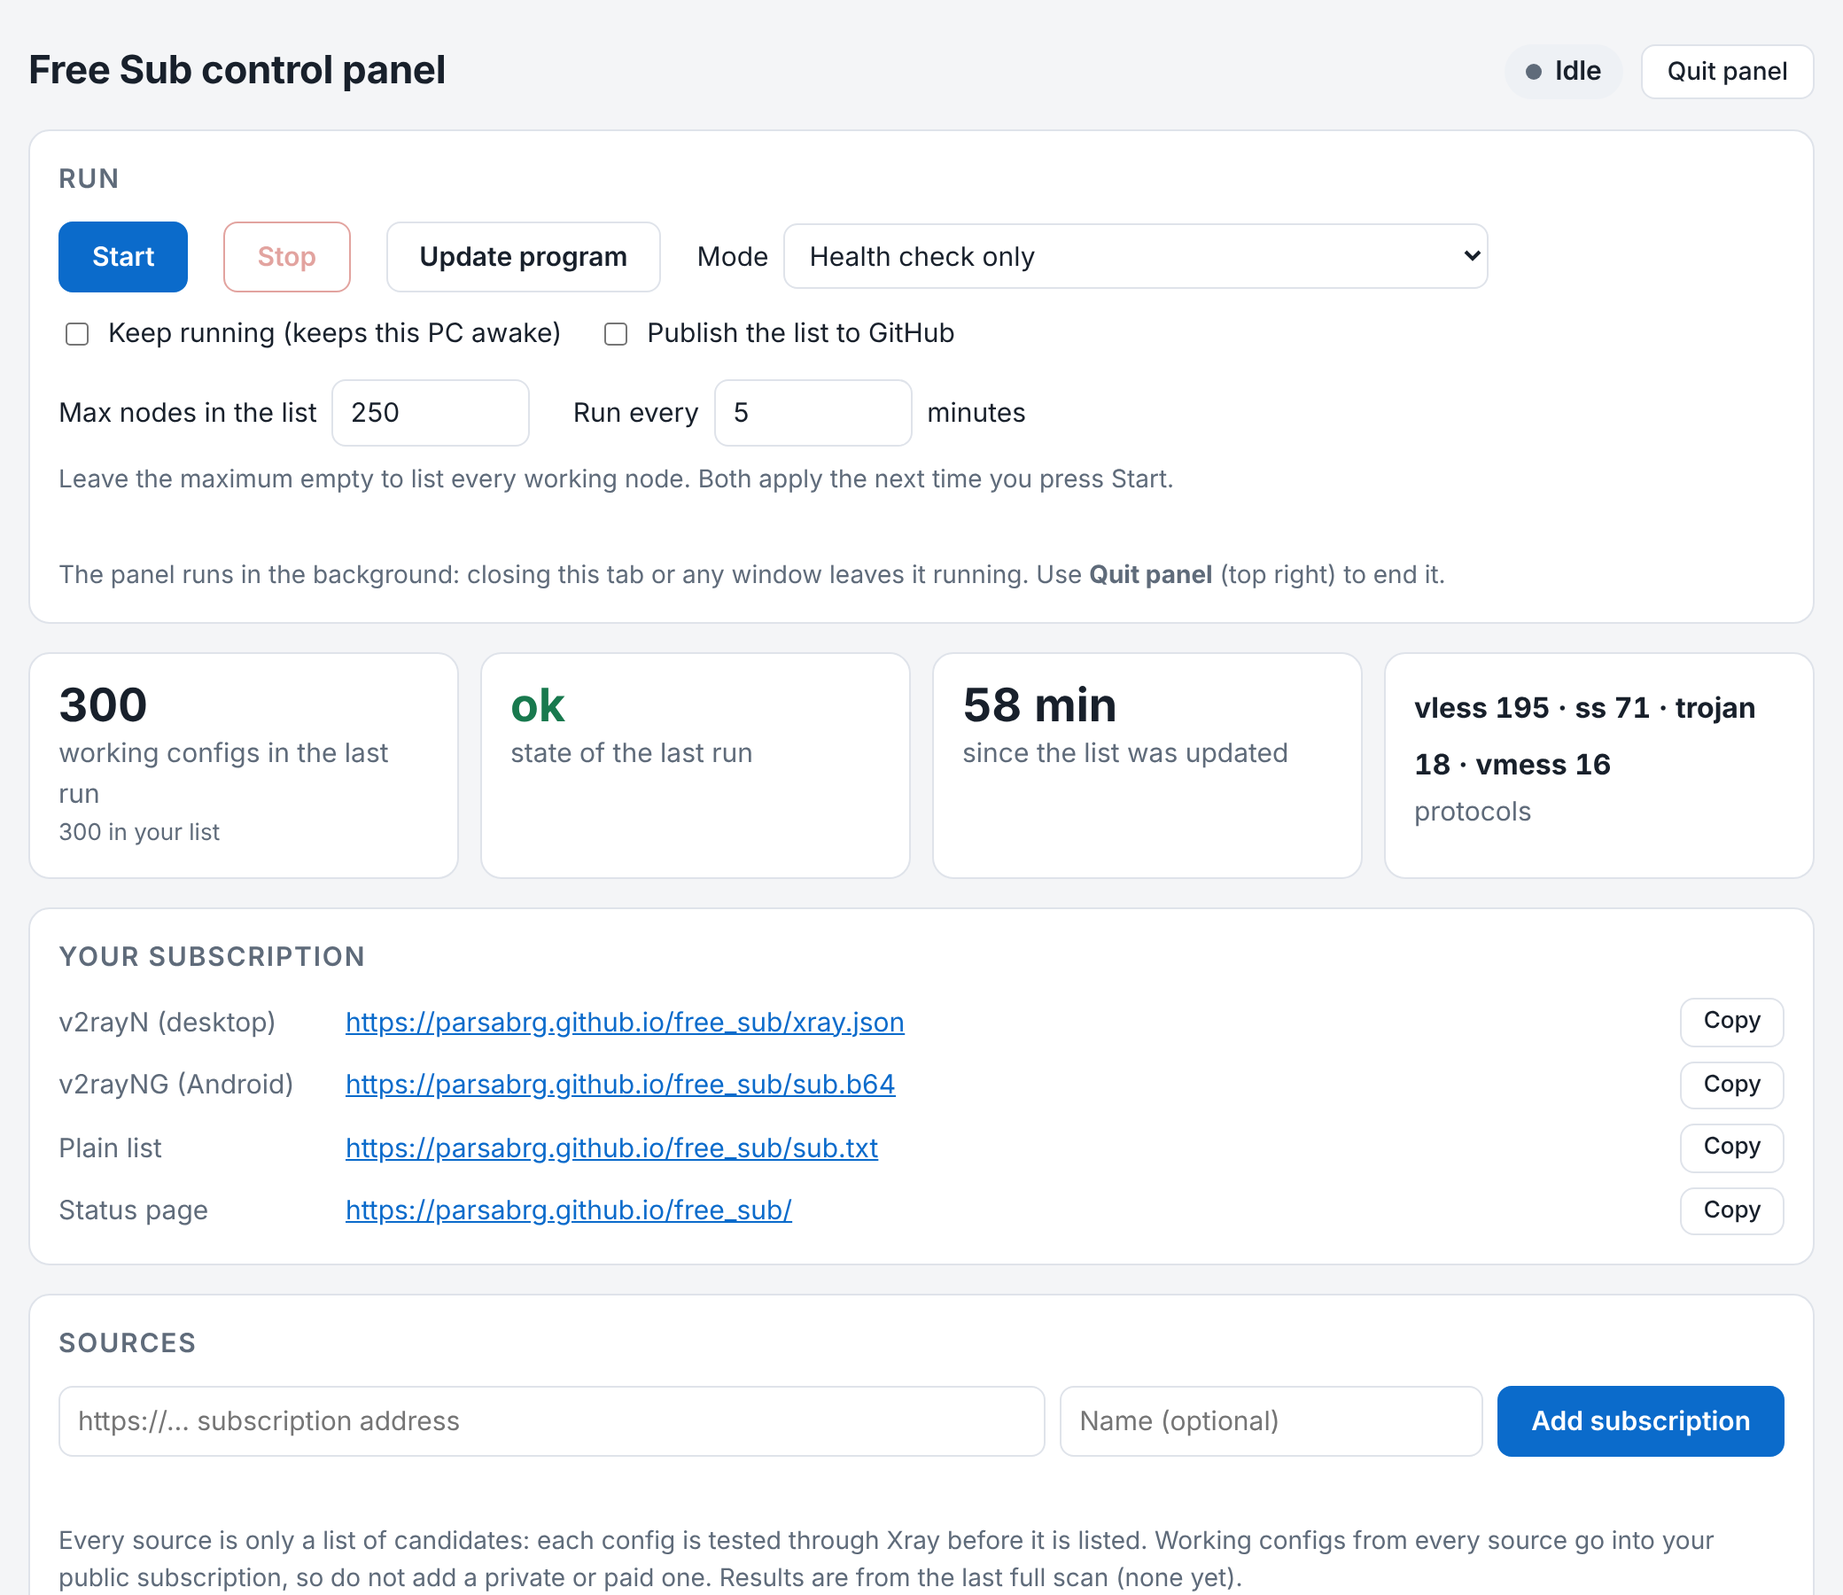
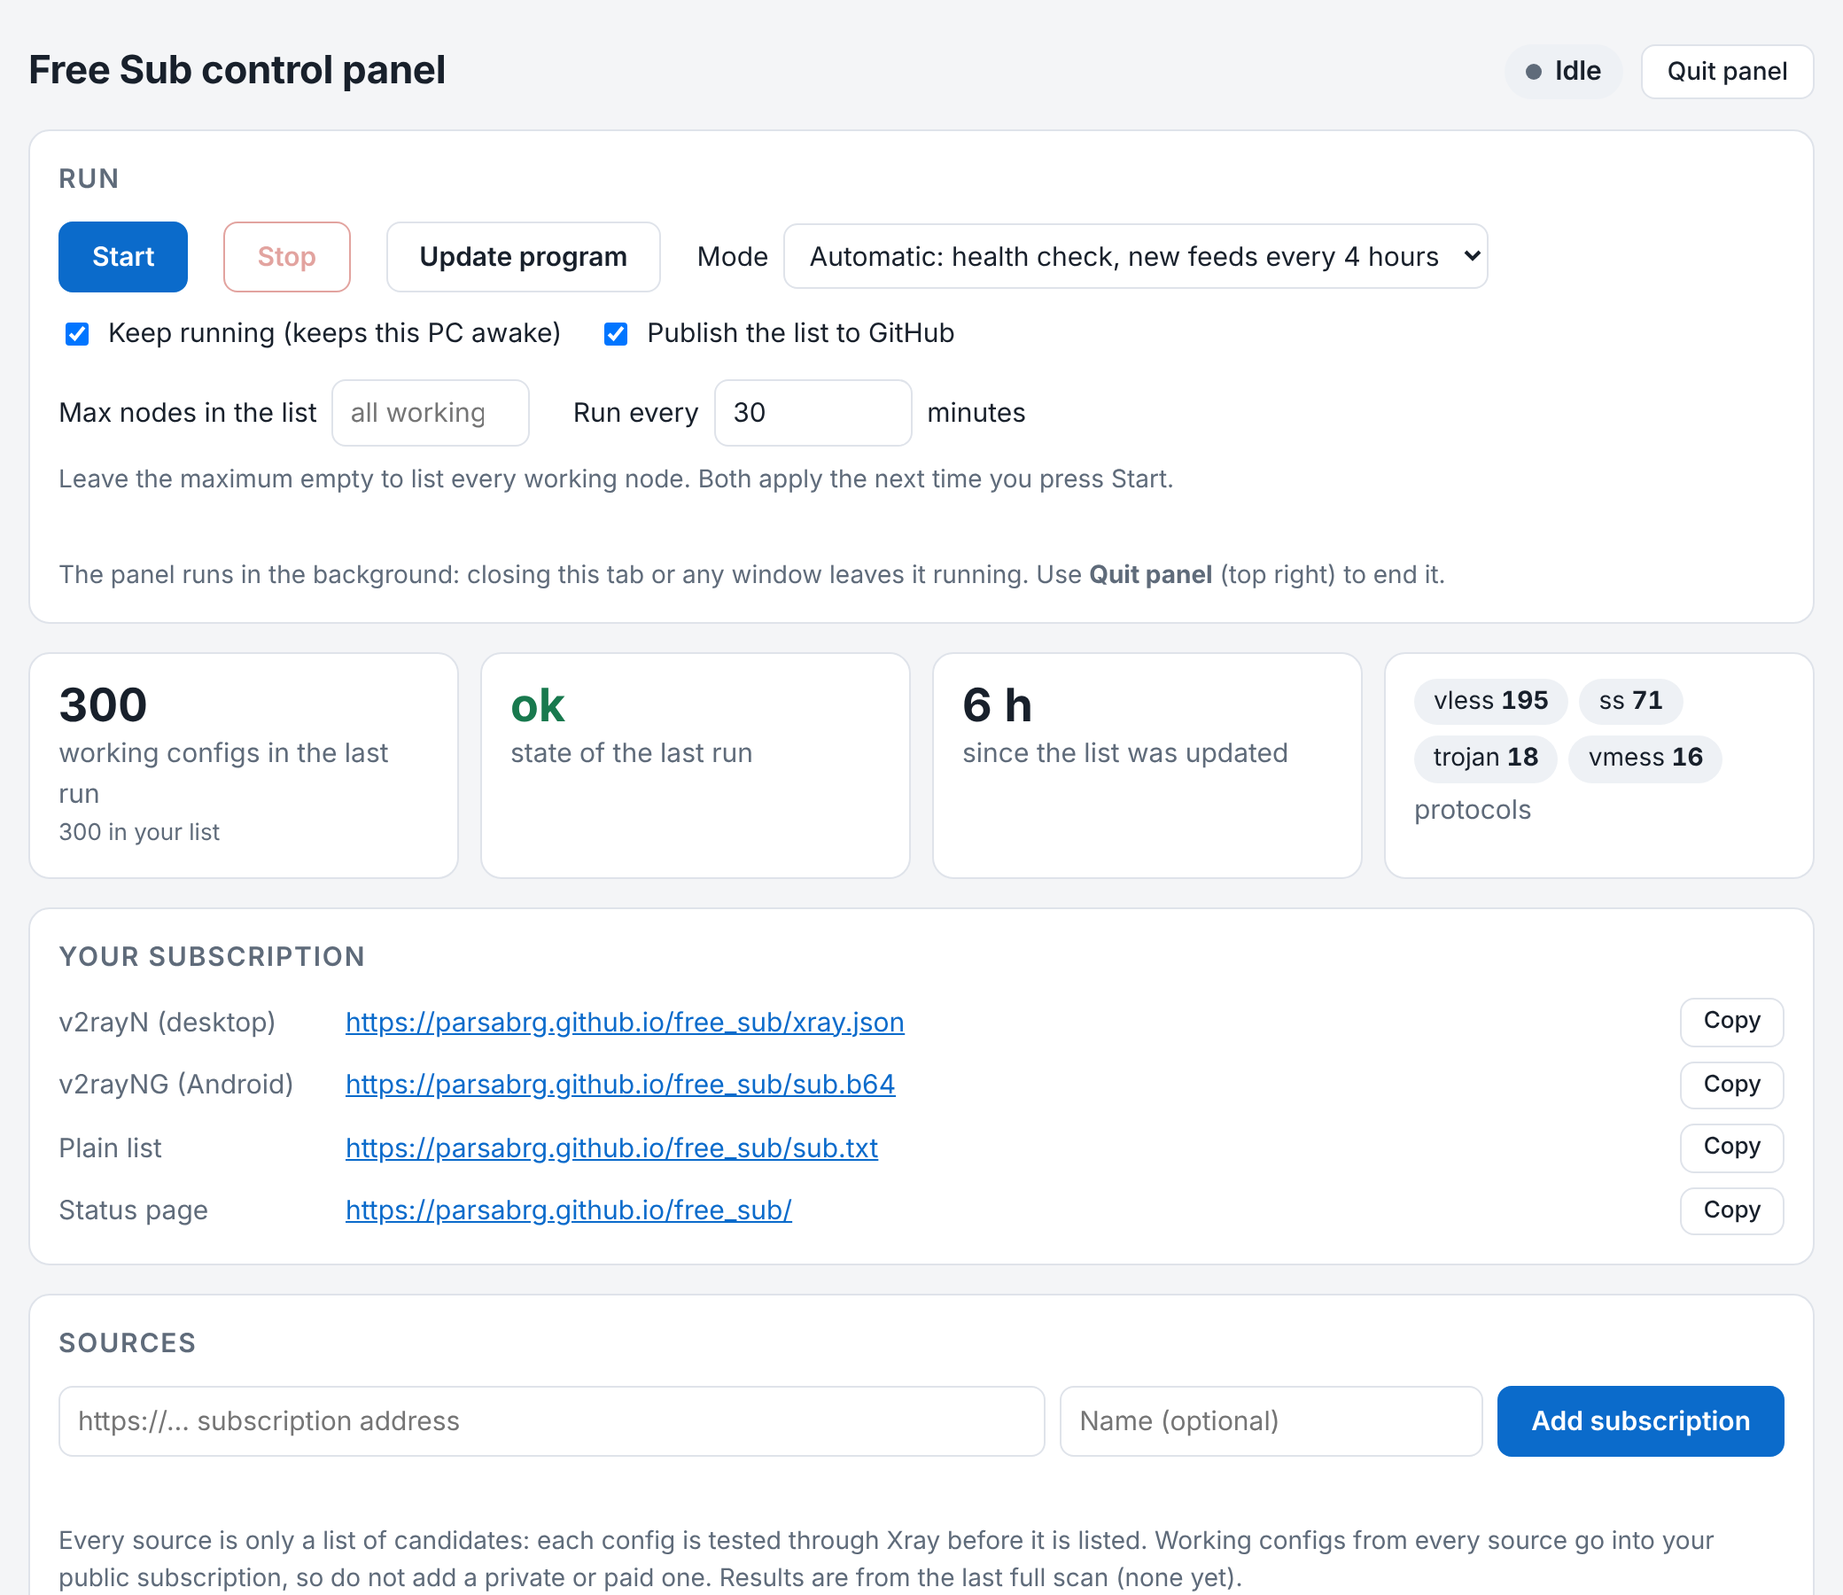
Show progress while sources are fetched; fix the protocols tile and scrollbars
The panel's progress bar appeared only once testing began, and the log
printed sources in list order, so a slow source hid every line after it.
On the operator's network the fetch phase lasted minutes and the panel
looked idle.

- collector.collect announces "[SOURCES] fetching N sources" and reports
  each source as it finishes; results keep the listed order.
- The panel shows its progress for the whole run: starting up, sources n
  of N, searching GitHub for new feeds, preparing the tests, testing. It
  looks only at the lines of the current run, so a new run no longer
  shows the previous run's last figure.
- Protocols are one chip each instead of one sentence that wrapped with a
  stray separator.
- The sources table uses fixed columns, so it no longer gets a sideways
  scrollbar on a wide screen (it still scrolls on a phone); long names
  break at slashes, not inside words.
- color-scheme: light dark on the panel and the public status page, so
  the scrollbars and form controls follow the dark theme.
- Docs, changelog, validation record and screenshot updated.

Claude-Session: https://claude.ai/code/session_01TMrhusGoKeF22YydAAP576

diff --git a/panel.html b/panel.html
@@ -5,6 +5,7 @@
 <title>Free Sub control panel</title>
 <style>
 :root {
+  color-scheme: light dark;
   --bg: #f4f5f7; --panel: #ffffff; --ink: #18202b; --muted: #5f6b7a; --line: #dfe3ea;
   --accent: #0b6bcb; --accent-ink: #ffffff; --good: #18794e; --warn: #a15c00; --bad: #c0362c;
   --chip: #eef1f5; --log-bg: #10151d; --log-ink: #cfd9e6;
@@ -51,6 +52,11 @@ label.check { display: inline-flex; align-items: center; gap: 8px; cursor: point
 .tile { background: var(--panel); border: 1px solid var(--line); border-radius: 12px; padding: 14px 16px; }
 .tile b { display: block; font-size: 26px; line-height: 1.2; font-variant-numeric: tabular-nums; }
 .tile span { color: var(--muted); }
+.chips { display: flex; flex-wrap: wrap; gap: 6px; align-content: flex-start; min-height: 31px; margin-bottom: 4px; }
+.chips b { font-size: 26px; line-height: 1.2; }
+.chips i { font-style: normal; background: var(--chip); border-radius: 999px; padding: 2px 11px; font-size: 14px; line-height: 1.6;
+  white-space: nowrap; font-variant-numeric: tabular-nums; }
+.chips i em { font-style: normal; font-weight: 700; }
 .tile small { display: block; color: var(--muted); font-size: 13px; margin-top: 2px; }
 .settings { display: flex; flex-wrap: wrap; align-items: center; gap: 10px 24px; margin-top: 14px; }
 .settings label { display: inline-flex; align-items: center; gap: 8px; max-width: 100%; }
@@ -68,14 +74,18 @@ form.add input[type=url] { flex: 3 1 260px; min-width: 0; }
 form.add input[type=text] { flex: 1 1 140px; min-width: 0; }
 .note { color: var(--muted); margin: 0 0 14px; font-size: 14px; }
 .message { min-height: 1.5em; margin: 0 0 8px; font-size: 14px; }
+.scroll, pre { scrollbar-width: thin; scrollbar-color: var(--muted) transparent; }
 .scroll { overflow-x: auto; }
-table { width: 100%; min-width: 640px; border-collapse: collapse; font-size: 14px; }
+/* Fixed columns: the table always fits its box. Only a narrow screen scrolls it sideways. */
+table { width: 100%; table-layout: fixed; border-collapse: collapse; font-size: 14px; }
+@media (max-width: 760px) { table { min-width: 640px; } }
 th, td { text-align: left; padding: 7px 10px; border-top: 1px solid var(--line); vertical-align: middle; }
 th { color: var(--muted); font-weight: 600; border-top: 0; white-space: nowrap; }
 td.num, th.num { text-align: right; font-variant-numeric: tabular-nums; white-space: nowrap; }
 tr.group td { background: var(--chip); font-weight: 600; border-top: 0; }
 tr.off td:not(:first-child) { opacity: 0.5; }
-td.where { max-width: 320px; overflow: hidden; text-overflow: ellipsis; white-space: nowrap; color: var(--muted); }
+td.where { overflow: hidden; text-overflow: ellipsis; white-space: nowrap; color: var(--muted); }
+td.name { overflow-wrap: break-word; }
 td button { padding: 2px 10px; font-weight: 500; font-size: 13px; }
 pre { margin: 0; background: var(--log-bg); color: var(--log-ink); border-radius: 8px; padding: 12px; height: 320px; overflow: auto; font: 12.5px/1.5 ui-monospace, Consolas, monospace; white-space: pre-wrap; overflow-wrap: anywhere; }
 </style>
@@ -124,7 +134,7 @@ pre { margin: 0; background: var(--log-bg); color: var(--log-ink); border-radius
     <div class="tile"><b id="t-published">–</b><span>working configs in the last run</span><small id="t-listed"></small></div>
     <div class="tile"><b id="t-health">–</b><span>state of the last run</span></div>
     <div class="tile"><b id="t-age">–</b><span>since the list was updated</span></div>
-    <div class="tile"><b id="t-protocols" style="font-size:16px;line-height:2">–</b><span>protocols</span></div>
+    <div class="tile"><div id="t-protocols" class="chips"><b>–</b></div><span>protocols</span></div>
   </div>
 
   <section id="links" hidden>
@@ -145,6 +155,7 @@ pre { margin: 0; background: var(--log-bg); color: var(--log-ink); border-radius
       Results are from the last full scan<span id="scan-age"></span>.</p>
     <div class="scroll">
       <table>
+        <colgroup><col style="width:44px"><col style="width:27%"><col style="width:21%"><col style="width:9%"><col style="width:9%"><col style="width:9%"><col></colgroup>
         <thead><tr><th>On</th><th>Name</th><th>Address</th><th class="num">Configs</th><th class="num">Tested</th><th class="num">Working</th><th></th></tr></thead>
         <tbody id="rows"></tbody>
       </table>
@@ -236,7 +247,7 @@ function renderSources(state) {
       toggle.setAttribute('aria-label', 'Use ' + source.name);
       toggle.onchange = () => act('/api/source/enable', {name: source.name, enabled: toggle.checked});
       tr.insertCell().append(toggle);
-      cell(tr, source.name);
+      cell(tr, source.name, 'name');
       cell(tr, source.where, 'where').title = source.where;
       const found = kind === 'found';
       cell(tr, count(found ? source.size : source.supported), 'num');
@@ -283,13 +294,36 @@ function render(state) {
     $('interval').value = state.settings.interval;
     first = false;
   }
-  let step = null;
-  for (let i = state.log.length - 1; i >= 0 && !step; i--) step = state.log[i].match(/\[(CHECK|VERIFY)[^\]]*\] (\d+)\/(\d+); passed=(\d+)/);
-  const showing = run.state === 'running' && step;
-  $('progress').className = 'progress' + (showing ? ' on' : '');
-  if (showing) {
-    $('fill').style.width = (100 * step[2] / Math.max(1, step[3])) + '%';
-    $('progress-text').textContent = `${step[1] === 'CHECK' ? 'Testing' : 'Verifying'} ${count(step[2])} of ${count(step[3])} · ${count(step[4])} passed`;
+  // Progress of the run that is going now: its lines start at the last "Starting a … run".
+  let from = 0;
+  for (let i = state.log.length - 1; i >= 0; i--) if (/ Starting a \w+ run/.test(state.log[i])) { from = i; break; }
+  const mine = state.log.slice(from);
+  const lastMatch = pattern => { for (let i = mine.length - 1; i >= 0; i--) { const m = mine[i].match(pattern); if (m) return {i, m}; } return null; };
+  let phase = null, width = 0;
+  if (run.state === 'running') {
+    const step = lastMatch(/\[(CHECK|VERIFY)[^\]]*\] (\d+)\/(\d+); passed=(\d+)/);
+    const planned = lastMatch(/\[RUN\] mode=\w+; candidates=(\d+)/);
+    const fetching = lastMatch(/\[SOURCES\] fetching (\d+) sources/);
+    const searching = lastMatch(/\[DISCOVER\] searching/);
+    if (step) {
+      width = 100 * step.m[2] / Math.max(1, step.m[3]);
+      phase = `${step.m[1] === 'CHECK' ? 'Testing' : 'Verifying'} ${count(step.m[2])} of ${count(step.m[3])} · ${count(step.m[4])} passed`;
+    } else if (planned) {
+      phase = `Starting ${count(planned.m[1])} tests…`;
+    } else if (searching && (!fetching || searching.i > fetching.i)) {
+      width = 100; phase = 'Searching GitHub for new feeds…';
+    } else if (fetching) {
+      const done = mine.slice(fetching.i + 1).filter(line => line.includes('[SOURCE] ')).length;
+      width = 100 * done / Math.max(1, Number(fetching.m[1]));
+      phase = `Fetching sources: ${done} of ${fetching.m[1]}`;
+    } else {
+      phase = 'Starting up…';
+    }
+  }
+  $('progress').className = 'progress' + (phase !== null ? ' on' : '');
+  if (phase !== null) {
+    $('fill').style.width = width + '%';
+    $('progress-text').textContent = phase;
   }
   const last = state.last;
   $('t-published').textContent = count(last.working);
@@ -301,8 +335,16 @@ function render(state) {
   health.textContent = last.health ? last.health.replaceAll('_', ' ') : '–';
   health.className = last.health === 'ok' ? 'good' : last.health ? 'warn' : '';
   $('t-age').textContent = last.generated ? ago(state.now - last.generated) : '–';
-  const protocols = Object.entries(last.protocols).sort((a, b) => b[1] - a[1]).map(([k, v]) => `${k} ${v}`).join(' · ');
-  $('t-protocols').textContent = protocols || '–';
+  const chips = $('t-protocols');
+  chips.textContent = '';
+  const protocols = Object.entries(last.protocols).sort((a, b) => b[1] - a[1]);
+  if (!protocols.length) chips.append(Object.assign(document.createElement('b'), {textContent: '–'}));
+  for (const [name, n] of protocols) {
+    const chip = document.createElement('i'), number = document.createElement('em');
+    number.textContent = count(n);
+    chip.append(name + ' ', number);
+    chips.append(chip);
+  }
   $('task').hidden = !state.task;
   renderLinks(state.pages);
   renderSources(state);

diff --git a/collector.py b/collector.py
@@ -251,17 +251,24 @@ def fetch_source(name, urls, per_source=0):
 
 
 def collect(source_map=SOURCES, per_source=0, stats=None, workers=8):
-    groups={}
+    results={}
+    if source_map: print(f'[SOURCES] fetching {len(source_map)} sources',flush=True)
     # Fetched side by side: one feed after another took 20 seconds for each dead one.
     with cf.ThreadPoolExecutor(max_workers=max(1,min(workers,len(source_map) or 1))) as executor:
-        jobs={name:executor.submit(fetch_source,name,urls,per_source) for name,urls in source_map.items()}
-        for name,job in jobs.items():
+        jobs={executor.submit(fetch_source,name,urls,per_source):name for name,urls in source_map.items()}
+        # Reported as each one finishes: waiting in list order let one slow source hide the
+        # lines of all that came after it, so the panel looked stuck.
+        for job in cf.as_completed(jobs):
+            name=jobs[job]
             try:
                 group,row=job.result()
             except Exception as e:
                 group,row=[],{'raw':0,'supported':0,'error':type(e).__name__}
-            groups[name]=group
-            if stats is not None: stats[name]=row
+            results[name]=(group,row)
             if row['error'] and not group: print(f'[SOURCE] {name}: FAILED ({row["error"]})',flush=True)
             else: print(f'[SOURCE] {name}: {row["raw"]} raw, {row["supported"]} supported unique',flush=True)
+    groups={}
+    for name in source_map:   # results keep the order the sources are listed in
+        groups[name],row=results[name]
+        if stats is not None: stats[name]=row
     return groups

diff --git a/tests/test_sources.py b/tests/test_sources.py
@@ -40,6 +40,28 @@ class ParserCoverageTests(unittest.TestCase):
         self.assertEqual(parse(base + '&host=a.example').key, parse(base).key)
         self.assertIsNone(parse(base + '&host=a.example&headerType=http'))
 
+    def test_sources_are_reported_as_they_finish_not_in_list_order(self):
+        import threading
+        quick_done = threading.Event()
+        def get(url, timeout=20):
+            if url.endswith('/slow'):
+                quick_done.wait(10)      # finishes only after the other one has
+                return link(1)
+            quick_done.set()
+            return link(2)
+        out = io.StringIO()
+        with patch('collector.get', get), redirect_stdout(out):
+            stats = {}
+            groups = collect({'Slow': 'https://x.example/slow', 'Quick': 'https://x.example/quick'}, stats=stats)
+        lines = out.getvalue().splitlines()
+        self.assertEqual(lines[0], '[SOURCES] fetching 2 sources')
+        self.assertEqual([line.split(':')[0] for line in lines[1:]], ['[SOURCE] Quick', '[SOURCE] Slow'])
+        # The results themselves keep the order the sources are listed in.
+        self.assertEqual((list(groups), list(stats)), (['Slow', 'Quick'], ['Slow', 'Quick']))
+        with redirect_stdout(io.StringIO()) as nothing:
+            collect({})
+        self.assertEqual(nothing.getvalue(), '')
+
     def test_html_escaped_separators_are_read(self):
         escaped = 'vless://id@example.com:443?security=tls&amp;type=ws&amp;path=%2Fx#n'
         self.assertEqual(links(escaped), ['vless://id@example.com:443?security=tls&type=ws&path=%2Fx#n'])

diff --git a/main.py b/main.py
@@ -154,7 +154,7 @@ INDEX='''<!doctype html>
 <meta name="viewport" content="width=device-width, initial-scale=1">
 <title>Free Sub: tested Xray subscription</title>
 <style>
-:root{--bg:#f4f5f7;--panel:#fff;--ink:#18202b;--muted:#5f6b7a;--line:#dfe3ea;--accent:#0b6bcb;--good:#18794e;--warn:#a15c00;--chip:#eef1f5}
+:root{color-scheme:light dark;--bg:#f4f5f7;--panel:#fff;--ink:#18202b;--muted:#5f6b7a;--line:#dfe3ea;--accent:#0b6bcb;--good:#18794e;--warn:#a15c00;--chip:#eef1f5}
 @media (prefers-color-scheme:dark){:root{--bg:#0f141b;--panel:#171e28;--ink:#e3eaf3;--muted:#93a0b2;--line:#2a3442;--accent:#5aa9f5;--good:#4cc38a;--warn:#f0b35a;--chip:#212b38}}
 *{box-sizing:border-box}
 body{margin:0;background:var(--bg);color:var(--ink);font:16px/1.55 system-ui,"Segoe UI",sans-serif}

diff --git a/sources.py b/sources.py
@@ -161,6 +161,7 @@ def refresh(registry, now, fetch=None, search=github_search):
     """Search GitHub for recently pushed collectors and choose files from the new ones.
     Returns False, changing nothing, when no search could be made."""
     fetch = fetch or collector.get
+    print('[DISCOVER] searching GitHub for new feeds', flush=True)
     since = time.strftime('%Y-%m-%d', time.gmtime(now - 2 * 86400))
     builtin = {'/'.join(u.split('/')[3:5]).lower() for u in collector.SOURCES.values()
                if u.startswith('https://raw.githubusercontent.com/')}

diff --git a/CHANGELOG.md b/CHANGELOG.md
@@ -30,6 +30,15 @@ and is not recorded here.
   minutes**. `status.json` records `list_limit`, `working_this_run` and the run
   interval that was actually used.
 
+### Changed (progress and layout)
+- The panel's progress bar now covers the whole run: starting up, fetching sources
+  (n of N), searching GitHub for new feeds, preparing the tests, then testing. It
+  showed nothing until the tests began, and the log hid every source that finished
+  after a slow one; sources are now reported as they finish.
+- A new run no longer shows the previous run's last progress.
+- The protocols tile shows one chip per protocol. The sources table has fixed
+  columns that always fit, and scrollbars and form controls follow the dark theme.
+
 ### Fixed
 - The test gate that runs before every push failed on a PC where the project sits
   inside another Git repository (the panel took that repository's address) or where

diff --git a/guide/validation.md b/guide/validation.md
@@ -64,8 +64,8 @@ PowerShell 5 lock-collision check confirmed exit code 2 and a readable error log
 Environment: Linux, Python 3.13, official Xray v26.3.27 (the Linux binary's SHA-256
 matches the value recorded above).
 
-- **90 tests passed** through `verify.py`, including the real Xray end-to-end
-  tests; 45 of them were added with these changes. The whole suite was also run with
+- **91 tests passed** through `verify.py`, including the real Xray end-to-end
+  tests; 46 of them were added with these changes. The whole suite was also run with
   its temporary folders inside another Git repository that has a different remote,
   the situation that broke the gate on the operator's PC; it passes. GitHub CI passed on Windows and
   Linux.

diff --git a/guide/reference.md b/guide/reference.md
@@ -116,7 +116,8 @@ Each entry of `nodes`:
 |---|---|
 | `[NETWORK]` | The adapter the tests leave through and the egress country. |
 | `[SKIP]` | The egress country is not Iran; nothing was tested or changed. |
-| `[SOURCE]` | One line per source: links found and supported, or `FAILED`. |
+| `[SOURCES]` | How many sources are about to be fetched. The control panel counts the `[SOURCE]` lines after it for its progress bar. |
+| `[SOURCE]` | One line per source, in the order they finish: links found and supported, or `FAILED`. |
 | `[RELAY]` | Direct fetches failed and a verified node is carrying them. |
 | `[DISCOVER]` | The daily GitHub search and its result. |
 | `[RUN]` | The mode and the number of candidates. |
